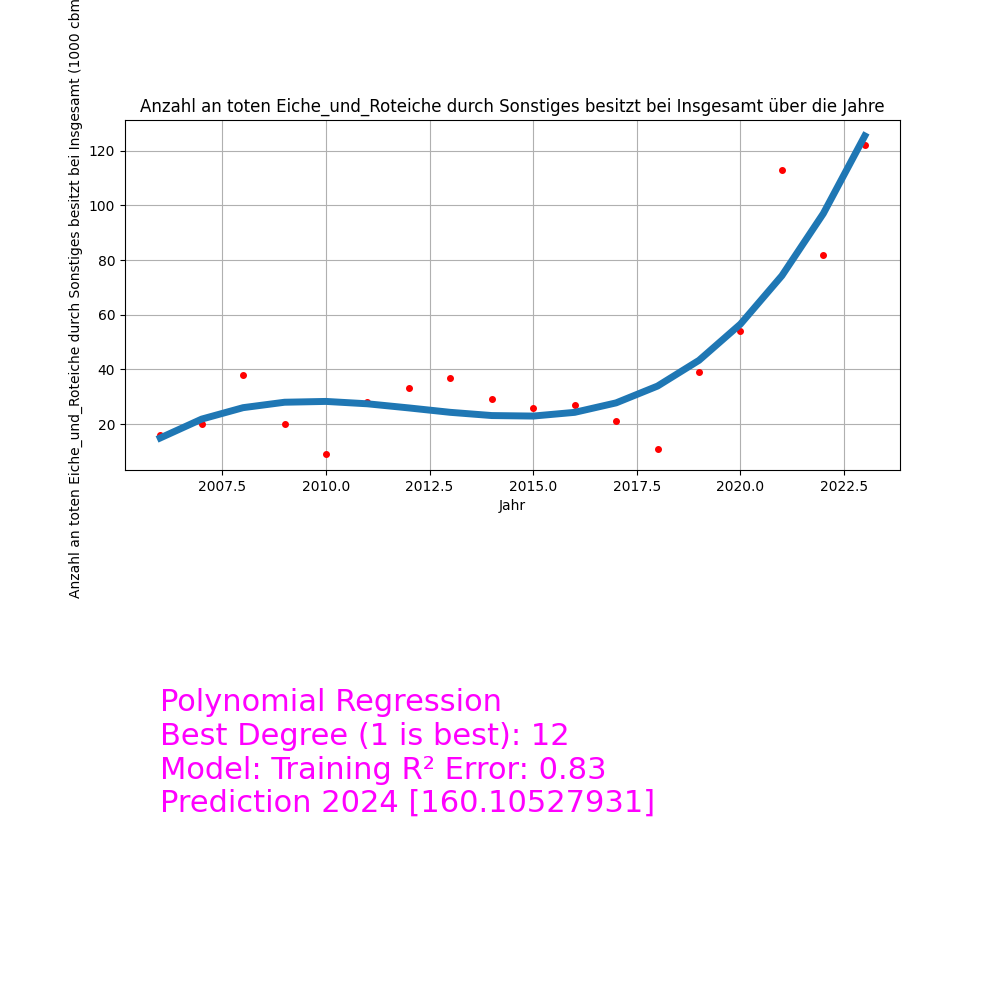
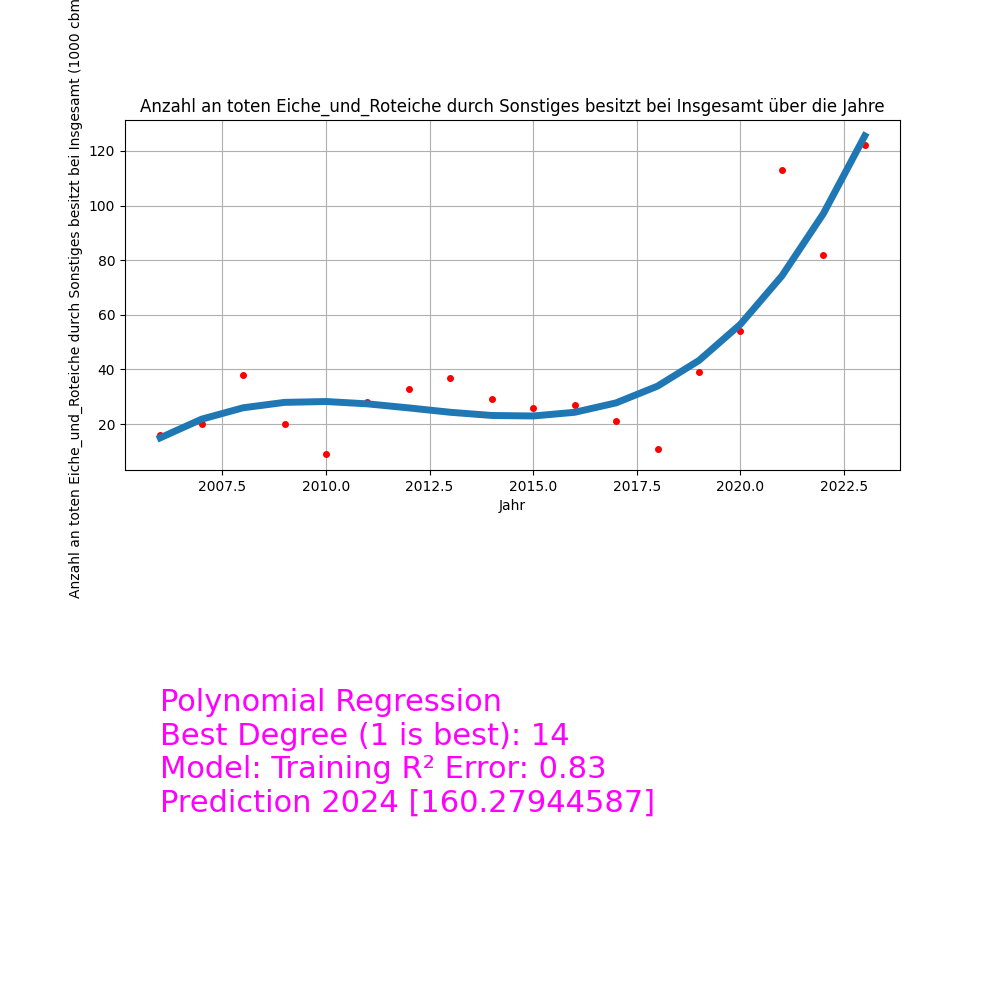
all options should calculate all possibilities

diff --git a/src/damagedlogginganalyzer/DamagedLoggingAnalyzer.py b/src/damagedlogginganalyzer/DamagedLoggingAnalyzer.py
@@ -29,8 +29,8 @@ class DamagedLoggingAnalyzer(CSVAnalyzer):
     def analyze(
         self,
         *,
-        plot_temporal_dependencies_specie_reason=False,
-        plot_temporal_dependencies_specie_owner=False,
+        plot_reason_dependencies=False,
+        plot_owner_dependencies=False,
         plot_temporal_dependencies_all=False,
         predict_temporal_dependencies=False,
         calculate_most_dangerous_reasons=False,
@@ -49,19 +49,17 @@ class DamagedLoggingAnalyzer(CSVAnalyzer):
             self.__years[idx] = year
             idx += 1
         self.__plotter.set_x_axis(self.__years)
-        skip_single_plots = False
         if plot_temporal_dependencies_all:
             print("Plotting Temporal Dependencies (all specie, reason and owner combinations)...")
             self.temporal_plot_all_combinations()
             print(f"Plots saved in: {self.__out_dir}")
-            skip_single_plots = True
-        if plot_temporal_dependencies_specie_reason:
-            print("Plotting Temporal Dependencies (all specie and reason combinations)...")
-            self.temporal_plot_all_specie_reason_combinations(skip_single_plots)
+        if plot_reason_dependencies:
+            print("Plotting Reason Dependencies ...")
+            self.reason_dependencies_plot()
             print(f"Plots saved in: {self.__out_dir}")
-        if plot_temporal_dependencies_specie_owner:
-            print("Plotting Temporal Dependencies (all specie and owner combinations)...")
-            self.temporal_plot_all_owner_specie_combinations(skip_single_plots)
+        if plot_owner_dependencies:
+            print("Plotting Owner Dependencies ...")
+            self.owner_dependencies_plot()
             print(f"Plots saved in: {self.__out_dir}")
         if predict_temporal_dependencies:
             # Predict the amount of damaged wood in 2024
@@ -99,37 +97,32 @@ class DamagedLoggingAnalyzer(CSVAnalyzer):
                     amounts = self.collect_temporal_dependencies(specie, reason, owner)
                     self.__plotter.plot_temporal_dependencies(amounts, specie, reason, owner)
 
-    def temporal_plot_all_owner_specie_combinations(self, skip_single_plots=False):
+    def owner_dependencies_plot(self):
         """
-        Plots all temporal dependencies for each owner and specie.
-        :return:
-        """
-        amounts = {}
-        for specie in self.__species:
-            amounts[specie] = {}
-            for owner in self.__owners:
-                amounts[specie][owner] = self.collect_temporal_dependencies(
-                    specie, "Einschlagsursache: Insgesamt", owner
-                )
-                if not skip_single_plots:
-                    self.__plotter.plot_temporal_dependencies(amounts[specie][owner], specie, "Insgesamt", owner)
-            self.__plotter.plot_temporal_dependencies_from_species_owner_dict(amounts[specie], specie, "Insgesamt")
-
-    def temporal_plot_all_specie_reason_combinations(self, skip_single_plots=False):
-        """
-        Plots all temporal dependencies for each species and reason.
+        Plots all temporal dependencies for each specie and reason for all owners.
         :return:
         """
         amounts = {}
         for specie in self.__species:
             amounts[specie] = {}
             for reason in self.__reasons:
-                # Create Single Plots
-                amounts[specie][reason] = self.collect_temporal_dependencies(specie, reason, "Insgesamt")
-                if not skip_single_plots:
-                    self.__plotter.plot_temporal_dependencies(amounts[specie][reason], specie, reason, "Insgesamt")
-            # Create Combined Plots
-            self.__plotter.plot_temporal_dependencies_from_species_reason_dict(amounts[specie], specie, "Insgesamt")
+                for owner in self.__owners:
+                    amounts[specie][owner] = self.collect_temporal_dependencies(specie, reason, owner)
+                reason = reason.removeprefix("Einschlagsursache: ")
+                self.__plotter.plot_temporal_dependencies_from_species_owner_dict(amounts[specie], specie, reason)
+
+    def reason_dependencies_plot(self):
+        """
+        Plots all temporal dependencies for each specie and owner for all reasons.
+        :return:
+        """
+        amounts = {}
+        for specie in self.__species:
+            amounts[specie] = {}
+            for owner in self.__owners:
+                for reason in self.__reasons:
+                    amounts[specie][reason] = self.collect_temporal_dependencies(specie, reason, owner)
+                self.__plotter.plot_temporal_dependencies_from_species_reason_dict(amounts[specie], specie, owner)
 
     def collect_temporal_dependencies(self, species="", reason="", origin=""):
         """
@@ -160,11 +153,12 @@ class DamagedLoggingAnalyzer(CSVAnalyzer):
         for specie in self.__species:
             amounts[specie] = {}
             for reason in self.__reasons:
-                y = self.collect_temporal_dependencies(specie, reason, "Insgesamt")
-                train_predict, train_score, value_2024, degree = self.__wood_oracle.predict_wood_logging(
-                    x, y, specie, reason, "Insgesamt"
-                )
+                for owner in self.__owners:
+                    y = self.collect_temporal_dependencies(specie, reason, owner)
+                    train_predict, train_score, value_2024, degree = self.__wood_oracle.predict_wood_logging(
+                        x, y, specie, reason, owner
+                    )
 
-                self.__plotter.plot_predictions(
-                    y, train_predict, train_score, value_2024, degree, specie, reason, "Insgesamt"
-                )
+                    self.__plotter.plot_predictions(
+                        y, train_predict, train_score, value_2024, degree, specie, reason, owner
+                    )

diff --git a/src/damagedlogginganalyzer/main.py b/src/damagedlogginganalyzer/main.py
@@ -32,29 +32,31 @@ def parse_args(args):
         help="Calculates the most dangerous reasons for each specie.",
     )
     parser.add_argument(
-        "--plot-temporal-dependencies-specie-reason",
+        "--plot-reason-dependencies",
         action="store_true",
-        help="Create plots for temporal dependencies for each specie and reason combination owned by Insgesamt."
-        "And will also create a combined plot for each specie and all reasons combinations.",
+        help="Create combined plots for each specie and owner combinations for all reasons. Plots will be saved in: "
+        "output-path/Specie/all_reasons/Owner/plot.png.",
     )
     parser.add_argument(
-        "--plot-temporal-dependencies-specie-owner",
+        "--plot-owner-dependencies",
         action="store_true",
-        help="Create plots for temporal dependencies for each specie and owner combination caused by Insgesamt."
-        "And will also create a combined plot for each specie and all owners combinations.",
+        help="Create combined plots for each specie and reason combinations for all owners. Plots will be saved in: "
+        "output-path/Specie/Reason/all_owners/plot.png.",
     )
     parser.add_argument(
         "--plot-temporal-dependencies-all",
         action="store_true",
-        help="Create plots for temporal dependencies for each specie, reason and owner combination."
-        "Note: use --plot-temporal-dependencies-specie-owner and --plot-temporal-dependencies-specie-reason to "
-        "create the combined plots.",
+        help="Create plots for temporal dependencies for each specie, reason and owner combination. "
+        "Plots will be saved in: output-path/Specie/Reason/Owner/plot.png. Note: use --plot-owner-dependencies "
+        "and --plot-reason-dependencies.",
     )
     parser.add_argument(
         "--predict",
         action="store_true",
         help="Estimates a death count function using Polynomial Regression with K-Fold Cross Validation to predict "
-        "the numbers for the year 2024.",
+        "the numbers for the year 2024. "
+        "Plots will be saved in: output-path/Prediction_2024/Specie/Reasons/Owner/plot.png.Note: will created a "
+        "new model for every specie, reason and owner combination.",
     )
     parser.add_argument(
         "--out-dir",
@@ -72,8 +74,8 @@ def main(args):
     with DamagedLoggingAnalyzer(args.out_dir) as analyzer:
         analyzer.read_in_csv(args.csv)
         analyzer.analyze(
-            plot_temporal_dependencies_specie_reason=args.plot_temporal_dependencies_specie_reason,
-            plot_temporal_dependencies_specie_owner=args.plot_temporal_dependencies_specie_owner,
+            plot_reason_dependencies=args.plot_reason_dependencies,
+            plot_owner_dependencies=args.plot_owner_dependencies,
             plot_temporal_dependencies_all=args.plot_temporal_dependencies_all,
             predict_temporal_dependencies=args.predict,
             calculate_most_dangerous_reasons=args.calculate_most_dangerous_reasons,

diff --git a/src/damagedlogginganalyzer/Plotter.py b/src/damagedlogginganalyzer/Plotter.py
@@ -104,7 +104,6 @@ class Plotter:
 
         color_map = plt.cm.get_cmap("tab10", len(species_dict))  # Use a colormap with enough colors
 
-        # Iterate over each key-value pair in the dictionary
         for i, (key, data_points) in enumerate(species_dict.items()):
             key = key.removeprefix("Einschlagsursache: ")
             plt.plot(self.__x, data_points, label=key, color=color_map(i))
@@ -123,19 +122,16 @@ class Plotter:
         :param reason:
         :return:
         """
-        print("HERE")
         plt.figure(figsize=(18, 10))
 
         color_map = plt.cm.get_cmap("tab10", len(species_dict))  # Use a colormap with enough colors
 
-        # Iterate over each key-value pair in the dictionary
         for i, (key, data_points) in enumerate(species_dict.items()):
             plt.plot(self.__x, data_points, label=key, color=color_map(i))
 
         plt.legend(title="Categories", bbox_to_anchor=(1.05, 1), loc="upper left")
         plt.grid(True)
         plt.tight_layout(rect=[0.05, 0.05, 0.95, 0.95])
-        print(species, reason, "all_owners")
         self.finish_temporal_plot(species, reason, "all_owners")
 
     def plot_temporal_dependencies(self, amounts, species="", reason="", origin=""):

diff --git a/src/damagedlogginganalyzer/Oracle.py b/src/damagedlogginganalyzer/Oracle.py
@@ -20,7 +20,7 @@ class Oracle:
         :param y:
         :return:
         """
-        degrees = [1, 2, 3, 4, 5, 6, 7, 8, 9, 10, 11, 12]
+        degrees = [1, 2, 3, 4, 5, 6, 7, 8, 9, 10, 11, 12, 13, 14]
 
         kf = KFold(n_splits=self.k_splits, shuffle=True, random_state=0)
         a_train_errors = []
@@ -50,7 +50,7 @@ class Oracle:
         print(f"Best degree: {best_degree}")
 
         best_model, train_score, _ = self.polynomial_regression(x, y, [], [], best_degree)
-        print(f"Train R² score (1 is best) for the best model: {train_score}")
+        print(f"Train R² score (1 is best) for the best model: {train_score}\n")
         return best_model, best_degree, train_score
 
     @staticmethod

diff --git a/README.md b/README.md
@@ -21,8 +21,8 @@ pip install .
 ## Commandline
 
 ```bash
-usage: damaged_logg_analyzer [-h] [--version] [--calculate-most-dangerous-reasons] [--plot-temporal-dependencies-specie-reason] [--plot-temporal-dependencies-specie-owner]
-                             [--plot-temporal-dependencies-all] [--predict] [--out-dir OUT_DIR]
+usage: damaged_logg_analyzer [-h] [--version] [--calculate-most-dangerous-reasons] [--plot-reason-dependencies] [--plot-owner-dependencies] [--plot-temporal-dependencies-all] [--predict]
+                             [--out-dir OUT_DIR]
                              CSV
 
 Analyzes the data about damaged wood from the CSV file.
@@ -35,18 +35,16 @@ options:
   --version             show program's version number and exit
   --calculate-most-dangerous-reasons
                         Calculates the most dangerous reasons for each specie.
-  --plot-temporal-dependencies-specie-reason
-                        Create plots for temporal dependencies for each specie and reason combination owned by Insgesamt.And will also create a combined plot for each specie and all reasons
-                        combinations.
-  --plot-temporal-dependencies-specie-owner
-                        Create plots for temporal dependencies for each specie and owner combination caused by Insgesamt.And will also create a combined plot for each specie and all owners
-                        combinations.
+  --plot-reason-dependencies
+                        Create combined plots for each specie and owner combinations for all reasons. Plots will be saved in: output-path/Specie/all_reasons/Owner/plot.png.
+  --plot-owner-dependencies
+                        Create combined plots for each specie and reason combinations for all owners. Plots will be saved in: output-path/Specie/Reason/all_owners/plot.png.
   --plot-temporal-dependencies-all
-                        Create plots for temporal dependencies for each specie, reason and owner combination.Note: use --plot-temporal-dependencies-specie-owner and --plot-temporal-
-                        dependencies-specie-reason to create the combined plots.
-  --predict             Estimates a death count function using Polynomial Regression with K-Fold Cross Validation to predict the numbers for the year 2024.
+                        Create plots for temporal dependencies for each specie, reason and owner combination. Plots will be saved in: output-path/Specie/Reason/Owner/plot.png. Note: use --plot-
+                        owner-dependencies and --plot-reason-dependencies.
+  --predict             Estimates a death count function using Polynomial Regression with K-Fold Cross Validation to predict the numbers for the year 2024. Plots will be saved in: output-
+                        path/Prediction_2024/Specie/Reasons/Owner/plot.png.Note: will created a new model for every specie, reason and owner combination.
   --out-dir OUT_DIR     Output directory for the plots.
-
 ```
 
 ## Library
